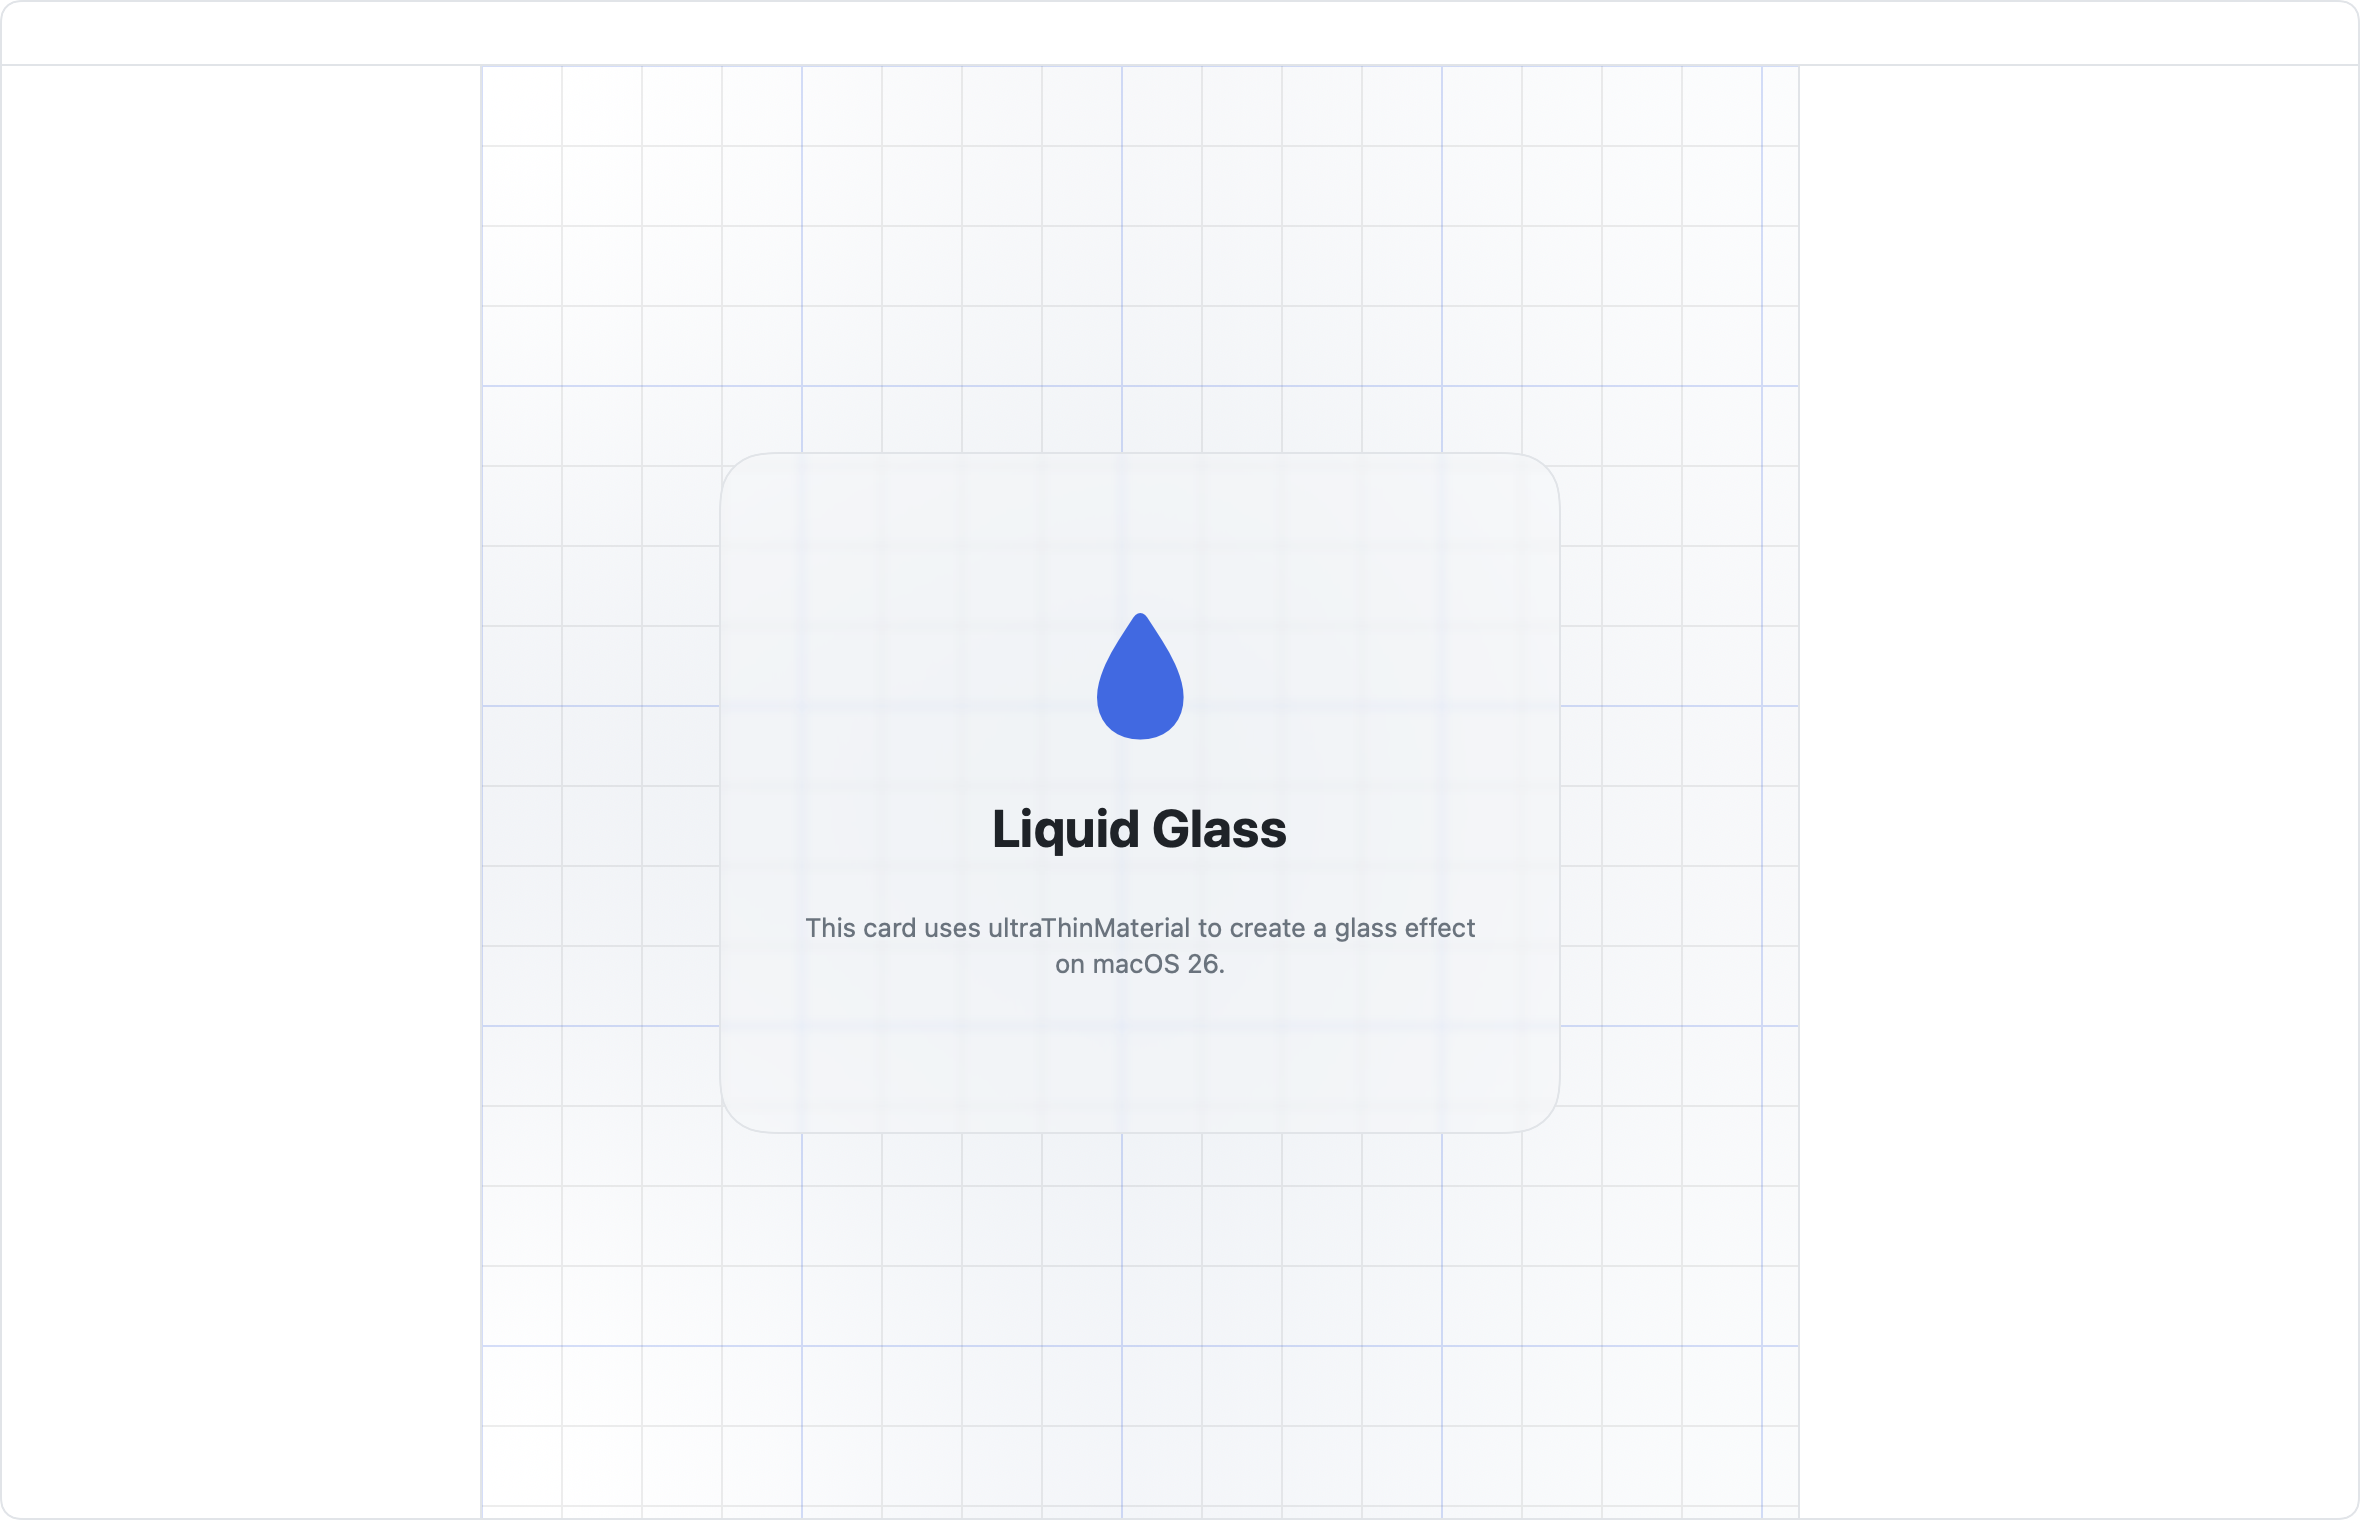
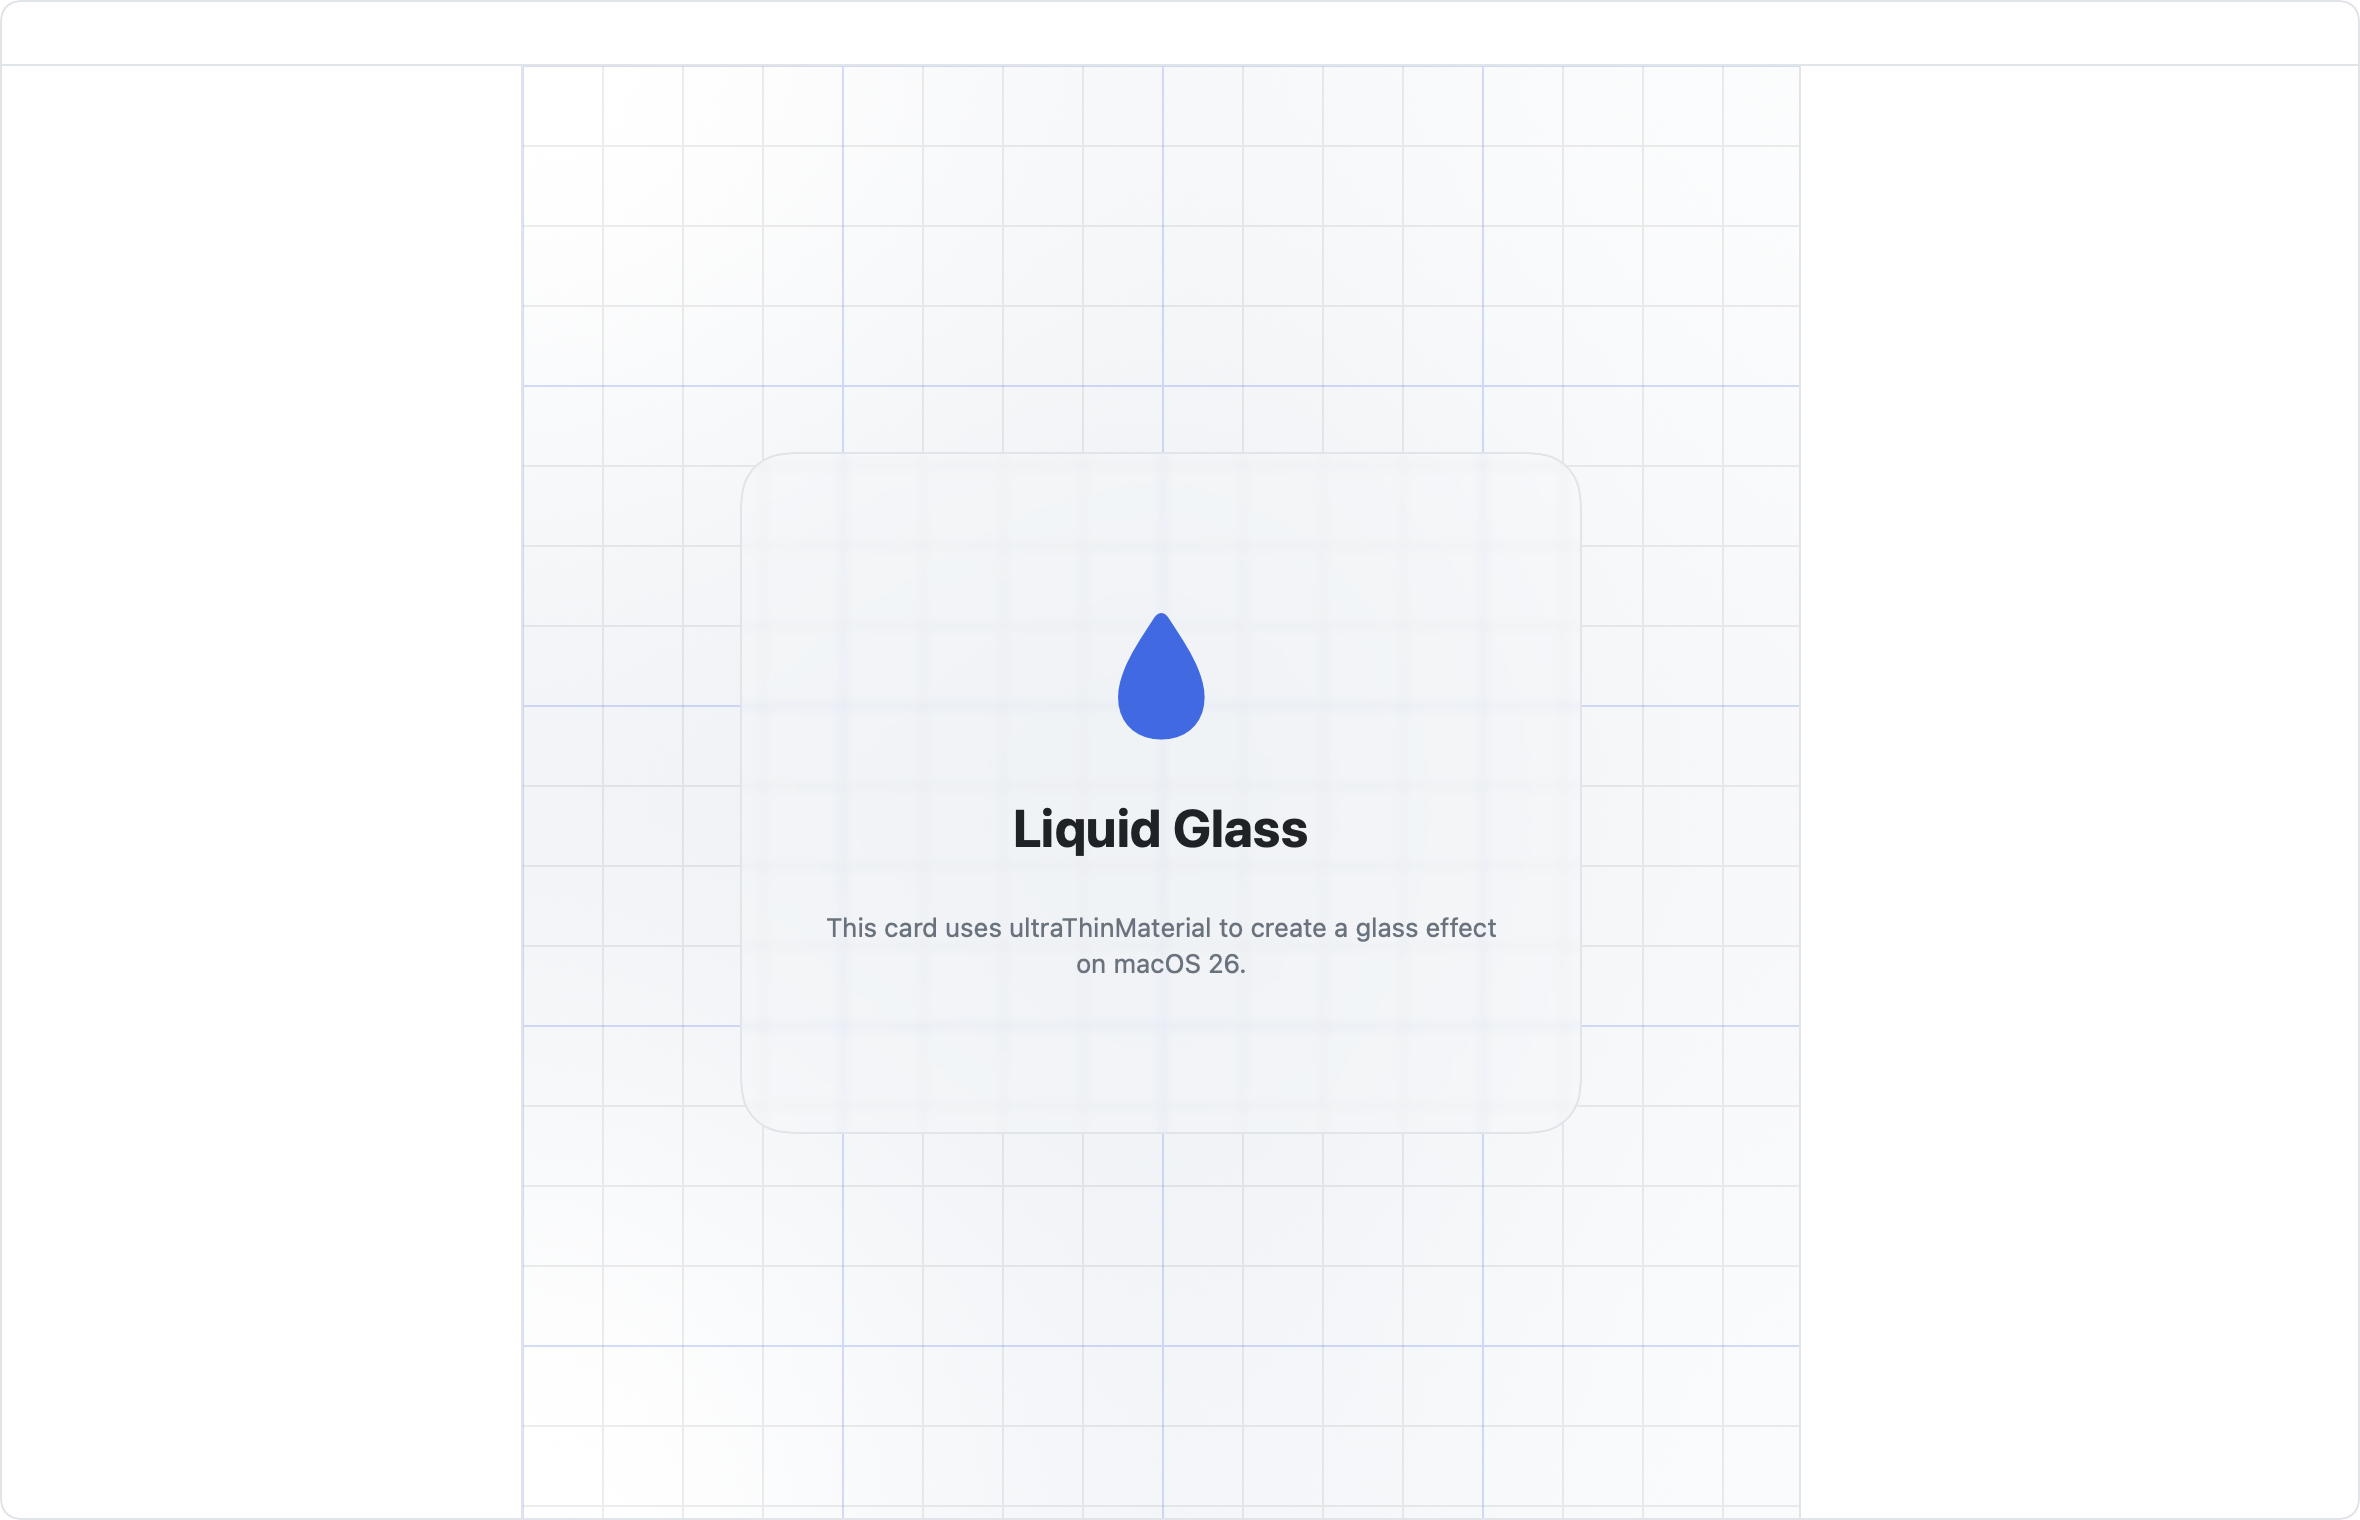
Updated themes section and screenshots

Changed region(s): [[0.3403, 0.5875, 0.6186, 0.6493], [0.464, 0.402, 0.5258, 0.4947], [0.4021, 0.5257, 0.5568, 0.5566]]

diff --git a/README.md b/README.md
@@ -30,18 +30,51 @@ Package, so there's no Xcode project to open — `swift run` and go.
 
 ## Themes
 
+Every theme ships with a light and a dark variant.
+
 <table>
+  <tr><th>Dark</th><th>Light</th></tr>
   <tr>
-    <td><b>Nous</b> (dark)<br><img src="images/theme-nous.png" alt="Nous"></td>
-    <td><b>Midnight</b> (dark)<br><img src="images/theme-midnight.png" alt="Midnight"></td>
+    <td colspan="2"><b>Slate</b></td>
   </tr>
   <tr>
-    <td><b>Ember</b> (dark)<br><img src="images/theme-ember.png" alt="Ember"></td>
-    <td><b>Cyberpunk</b> (dark)<br><img src="images/theme-cyberpunk.png" alt="Cyberpunk"></td>
+    <td><img src="images/theme-slate-dark.png" alt="Slate (dark)"></td>
+    <td><img src="images/theme-slate-light.png" alt="Slate (light)"></td>
   </tr>
   <tr>
-    <td><b>Mono</b> (dark)<br><img src="images/theme-mono.png" alt="Mono"></td>
-    <td><b>Slate</b> (light)<br><img src="images/theme-slate-light.png" alt="Slate (light)"></td>
+    <td colspan="2"><b>Nous</b></td>
+  </tr>
+  <tr>
+    <td><img src="images/theme-nous-dark.png" alt="Nous (dark)"></td>
+    <td><img src="images/theme-nous-light.png" alt="Nous (light)"></td>
+  </tr>
+  <tr>
+    <td colspan="2"><b>Midnight</b></td>
+  </tr>
+  <tr>
+    <td><img src="images/theme-midnight-dark.png" alt="Midnight (dark)"></td>
+    <td><img src="images/theme-midnight-light.png" alt="Midnight (light)"></td>
+  </tr>
+  <tr>
+    <td colspan="2"><b>Ember</b></td>
+  </tr>
+  <tr>
+    <td><img src="images/theme-ember-dark.png" alt="Ember (dark)"></td>
+    <td><img src="images/theme-ember-light.png" alt="Ember (light)"></td>
+  </tr>
+  <tr>
+    <td colspan="2"><b>Mono</b></td>
+  </tr>
+  <tr>
+    <td><img src="images/theme-mono-dark.png" alt="Mono (dark)"></td>
+    <td><img src="images/theme-mono-light.png" alt="Mono (light)"></td>
+  </tr>
+  <tr>
+    <td colspan="2"><b>Cyberpunk</b></td>
+  </tr>
+  <tr>
+    <td><img src="images/theme-cyberpunk-dark.png" alt="Cyberpunk (dark)"></td>
+    <td><img src="images/theme-cyberpunk-light.png" alt="Cyberpunk (light)"></td>
   </tr>
 </table>
 